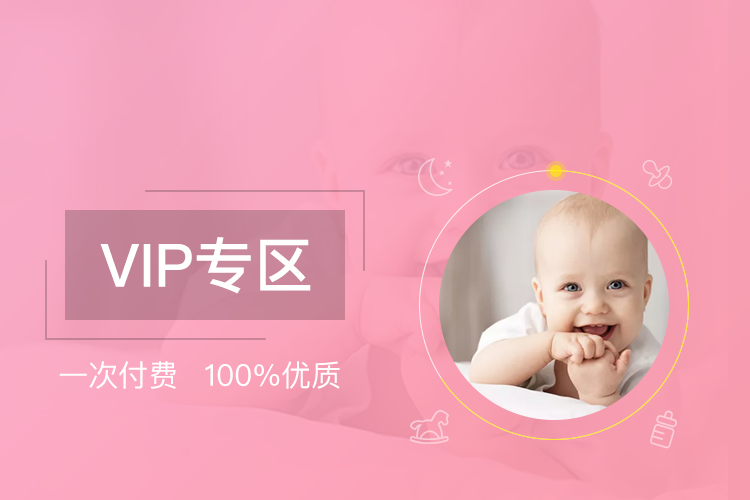
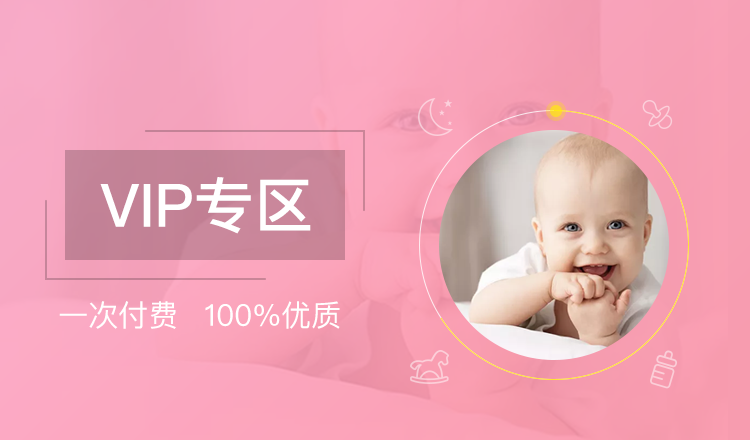
banner问题 顶部搜索组件化

diff --git a/src/page/home/index.vue b/src/page/home/index.vue
@@ -3,28 +3,7 @@
       <div class="home_container"  id="homeContainer">
         <div>
           <div>
-            <div class="top-bar">
-              <div class="section">
-                <img class='image' src='../../images/tab/home_pic_baby@2x.png'/>
-              </div>
-
-              <div class='operate'>
-                <div class='search-icon-view'>
-                  <img src='../../images/tab/home_icon_search@2x.png'/>
-                </div>
-                <div class="section text-view">
-                  <div class='text'>今天想听什么</div>
-                </div>
-                <div class='scan-icon-view'>
-                  <img src='../../images/tab/home_icon_scan@2x.png'/>
-                </div>
-              </div>
-
-              <div class='news-icon-view'>
-                <img src='../../images/tab/home_icon_news@2x.png'/>
-              </div>
-
-            </div>
+            <SysTopBar></SysTopBar>
 
             <swiper auto  height="4.4rem" dots-position="center" dots-class="custom-bottom" v-model="bannerIndex"
                     @on-index-change="onBannerIndexChange">
@@ -81,6 +60,7 @@
 <script>
   import {Swiper, SwiperItem} from 'vux';
   import SysTabBar from '../../components/TabBar'
+  import SysTopBar from '../../components/TopBar'
   import IScroll from "iscroll";
 
   import BANNER_1 from '../../images/banner/banner@2x.png';
@@ -168,6 +148,7 @@
     },
     components: {
       SysTabBar
+      , SysTopBar
       , Swiper
       , SwiperItem
     },
@@ -219,82 +200,8 @@
     bottom: 1.1rem;
     top:0;
 
-    .top-bar {
-      float: left;
-      position: absolute;
-      z-index: 999;
-      margin: 0.56rem 0 0 0.2rem;
-      height: 0.6rem;
-
-      .section {
-        float: left;
-        position: relative;
-        height: 100%;
-
-        .image {
-          float: left;
-          width: 0.6rem;
-          height: 100%;
-          border-radius: 0.6rem;
-        }
-
-        .text {
-          height: 100%;
-          width: 100%;
-          font-size: 0.26rem;
-          padding: 0.11rem 0;
-          color: #fff;
-        }
-      }
-
-      .operate {
-        float: left;
-        margin: 0.01rem 0.42rem 0.01rem 0.38rem;
-        border-radius: 1rem;
-        width: 5.2rem;
-        height: 0.54rem;
-        background: rgba(255, 255, 255, .3);
-
-        .search-icon-view {
-          float: left;
-          height: 100%;
-
-          img {
-            float: left;
-            margin: 0.12rem 0.25rem 0 0.3rem;
-            width: 0.3rem;
-            height: 0.3rem;
-          }
-        }
-
-        .scan-icon-view {
-          float: right;
-          height: 100%;
-
-          img {
-            float: right;
-            margin: 0.12rem 0.29rem;
-            width: 0.3rem;
-            height: 0.3rem;
-          }
-        }
-
-        .text-view {
-          width: 66%;
-        }
-      }
-
-      .news-icon-view {
-        float: left;
-        height: 100%;
-        margin: 0.06rem 0.2rem 0 0;
-
-        img {
-          float: right;
-          width: 0.48rem;
-          height: 0.48rem;
-        }
-      }
+    .mod {
+      top: 0.2rem;
     }
 
     .items {

diff --git a/src/components/TopBar.vue b/src/components/TopBar.vue
@@ -1,0 +1,122 @@
+<template>
+  <!--加个样式，方便以后修改-->
+
+  <div class="top-bar mod">
+    <img class='top-bar-user' :src='iconBaby'/>
+
+    <div class='top-bar-search'>
+      <div>
+        <img :src='iconSearch'/>
+        <span class='text'>今天想听什么</span>
+      </div>
+    </div>
+    <!--<div class='top-bar-search'>-->
+      <!--<div class='search-icon-view'>-->
+        <!--<img :src='iconSearch'/>-->
+      <!--</div>-->
+      <!--<div class="section text-view">-->
+        <!--<div class='text'>今天想听什么</div>-->
+      <!--</div>-->
+    <!--</div>-->
+
+
+    <img class="top-bar-news" :src='iconNews'/>
+  </div>
+
+
+
+
+</template>
+
+<script>
+
+
+  import ICON_BABY from '../images/tab/home_pic_baby@2x.png';
+  import ICON_SEARCH from '../images/tab/home_icon_search@2x.png';
+  import ICON_NEWS from '../images/tab/home_icon_news@2x.png';
+
+  export default {
+    name: 'SysTopBar'
+    ,data () {
+      return {
+        iconBaby: ICON_BABY
+        ,iconSearch: ICON_SEARCH
+        ,iconNews: ICON_NEWS
+      }
+    }
+    ,computed: {
+    }
+    ,components: {},
+    created(){
+    },
+    mounted: function() {
+
+    },
+    methods: {
+
+    }
+  }
+</script>
+
+<style lang="less" scoped>
+  .top-bar {
+    display: -webkit-box;
+    display: -webkit-flex;
+    display: -ms-flexbox;
+    display: flex;
+    position: absolute;
+    z-index: 500;
+    top: 0;
+    width: 100%;
+    height: 0.6rem;
+    /*background-color: #aaa;*/
+
+    .top-bar-user {
+      position: absolute;
+      left: 0;
+      margin-left: 0.22rem;
+      width: 0.6rem;
+      height: 0.6rem;
+    }
+
+    .top-bar-news {
+      position: absolute;
+      right: 0;
+      margin: 0.06rem 0.2rem 0.06rem 0;
+      width: 0.48rem;
+      height: 0.48rem;
+    }
+
+    .top-bar-search {
+      position: absolute;
+      left: 1.3rem;
+      top: 0.02rem;
+      width: 5rem;
+      height: 0.56rem;
+      border-radius: 1rem;
+      background: rgba(255, 255, 255, .3);
+
+      img {
+        position: absolute;
+        width: 0.3rem;
+        height: 0.3rem;
+        top: 0.13rem;
+        left: 0.3rem;
+      }
+
+      .text {
+        position: absolute;
+        left: 0.85rem;
+        top: 0.12rem;
+        font-size: 0.26rem;
+        color: #fff;
+      }
+    }
+
+  }
+
+
+
+  /*底部盒子固定，元素浮动，盒子随着元素个数增加而没有撑大*/
+  /*解决方法：使用clear 或者 overflow：hidden;*/
+</style>
